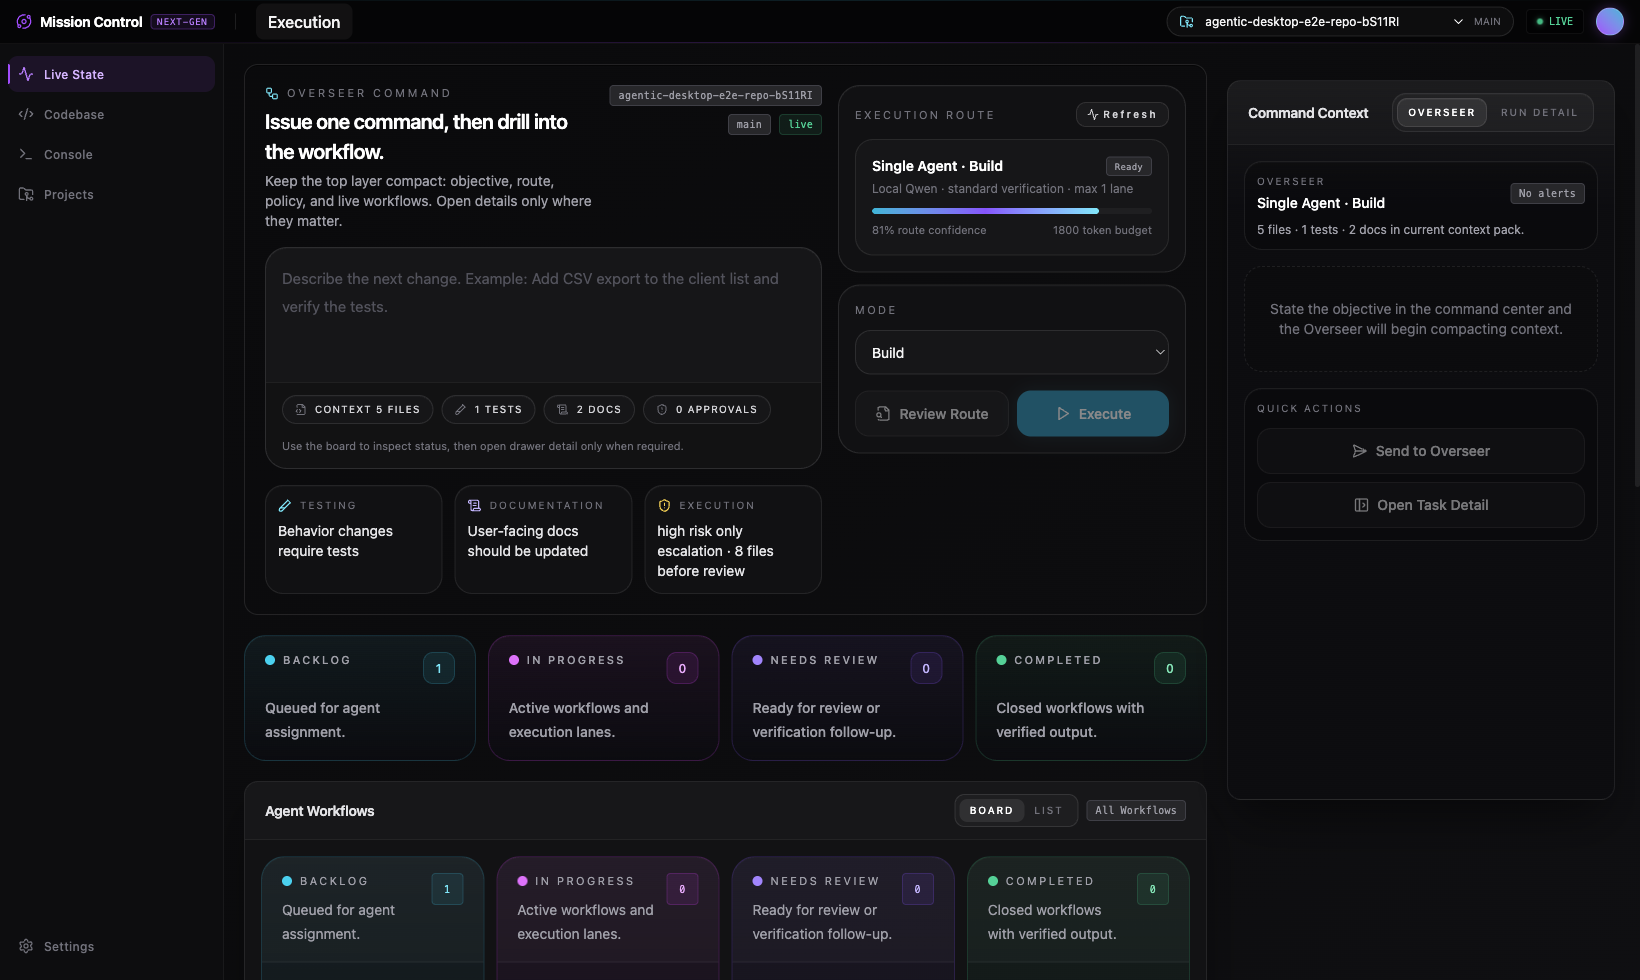
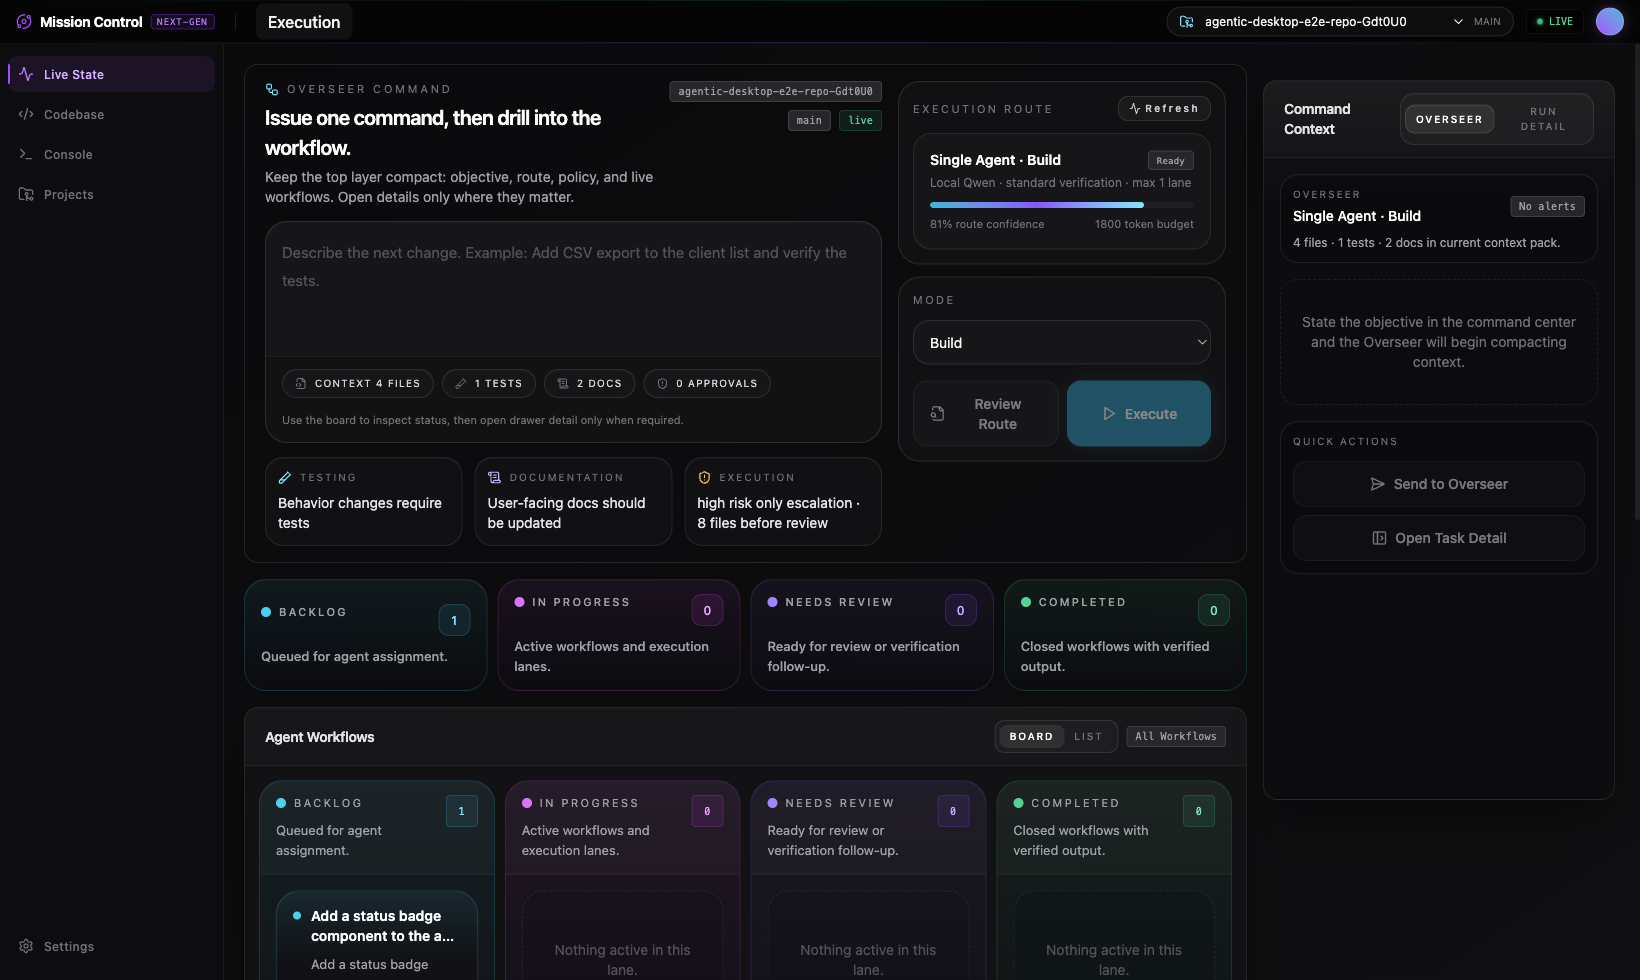
Tighten command center board density

diff --git a/src/app/components/views/CommandCenterView.tsx b/src/app/components/views/CommandCenterView.tsx
@@ -8,8 +8,6 @@ import {
   ArrowRight,
   Bot,
   CheckCircle2,
-  ChevronDown,
-  ChevronRight,
   CircleDot,
   FileCode2,
   FileSearch,
@@ -268,8 +266,8 @@ export function CommandCenterView({ mission }: { mission: MissionData }) {
   }, [groupedWorkflows]);
 
   return (
-    <div className="grid grid-cols-1 gap-5 xl:grid-cols-[minmax(0,1fr)_388px]">
-      <div className="min-w-0 space-y-5">
+    <div className="grid grid-cols-1 gap-4 xl:grid-cols-[minmax(0,1fr)_352px]">
+      <div className="min-w-0 space-y-4">
         <OverseerCommandCard
           mission={mission}
           attentionCount={attentionCount}
@@ -320,10 +318,10 @@ export function CommandCenterView({ mission }: { mission: MissionData }) {
                 </div>
               </PanelHeader>
 
-              <div className="p-4">
+              <div className="p-3.5">
                 {workflowViewMode === "board" ? (
                   <DndProvider backend={HTML5Backend}>
-                    <div className="grid gap-3 xl:grid-cols-4">
+                    <div className="grid gap-2.5 xl:grid-cols-4">
                       {laneActivity.map((lane) => (
                         <WorkflowLane
                           key={lane.key}
@@ -441,8 +439,8 @@ function OverseerCommandCard({
   return (
     <Panel className="border-white/10 bg-[radial-gradient(circle_at_top_left,rgba(34,211,238,0.08),transparent_24%),radial-gradient(circle_at_top_right,rgba(168,85,247,0.10),transparent_22%),#111113] shadow-[inset_0_1px_0_rgba(255,255,255,0.02)]">
       <div className="absolute inset-x-0 top-0 h-px bg-gradient-to-r from-transparent via-cyan-500/30 to-transparent" />
-      <div className="grid grid-cols-1 gap-4 p-5 lg:grid-cols-[minmax(0,1.35fr)_348px] lg:p-5">
-        <div className="space-y-4">
+      <div className="grid grid-cols-1 gap-4 px-5 py-4 lg:grid-cols-[minmax(0,1.45fr)_328px]">
+        <div className="space-y-3.5">
           <div className="flex items-start justify-between gap-4">
             <div className="space-y-1">
               <div className="flex items-center gap-2 text-[11px] uppercase tracking-[0.26em] text-zinc-500">
@@ -458,7 +456,7 @@ function OverseerCommandCard({
                   : "Choose a local Git repo or connect GitHub. The app works in a linked copy and keeps your original repository untouched."}
               </p>
             </div>
-            <div className="flex max-w-[360px] flex-wrap items-center justify-end gap-2">
+          <div className="flex max-w-[320px] flex-wrap items-center justify-end gap-2">
               {mission.selectedRepo ? (
                 <>
                   <Chip variant="subtle" className="max-w-[220px] truncate text-[10px]" title={mission.selectedRepo.displayName}>
@@ -565,7 +563,7 @@ function OverseerCommandCard({
         </div>
 
         <div className="flex flex-col gap-3">
-          <div className="rounded-[22px] border border-white/10 bg-[#111113] p-4 shadow-[inset_0_1px_0_rgba(255,255,255,0.02)]">
+          <div className="rounded-[22px] border border-white/10 bg-[#111113] p-3.5 shadow-[inset_0_1px_0_rgba(255,255,255,0.02)]">
             <div className="flex items-center justify-between gap-3 text-[11px] uppercase tracking-[0.22em] text-zinc-500">
               <span>Execution Route</span>
               <button
@@ -599,7 +597,7 @@ function OverseerCommandCard({
             </div>
           </div>
 
-          <div className="space-y-3 rounded-[22px] border border-white/10 bg-[#111113] p-4 shadow-[inset_0_1px_0_rgba(255,255,255,0.02)]">
+          <div className="space-y-3 rounded-[22px] border border-white/10 bg-[#111113] p-3.5 shadow-[inset_0_1px_0_rgba(255,255,255,0.02)]">
             <div className="text-[11px] uppercase tracking-[0.22em] text-zinc-500">Mode</div>
             <select
               value={mission.selectedModelRole}
@@ -660,7 +658,7 @@ function WorkflowSummaryRow({
   onSelect: (lane: WorkflowLaneKey) => void;
 }) {
   return (
-    <div className="grid grid-cols-1 gap-3 md:grid-cols-2 xl:grid-cols-4">
+    <div className="grid grid-cols-1 gap-2.5 md:grid-cols-2 xl:grid-cols-4">
       {lanes.map((lane) => {
         const meta = laneMetaFor(lane.key);
         const active = selectedLane === lane.key;
@@ -669,7 +667,7 @@ function WorkflowSummaryRow({
             key={lane.key}
             onClick={() => onSelect(lane.key)}
             className={cn(
-              "rounded-[22px] border px-5 py-4 text-left transition-all shadow-[inset_0_1px_0_rgba(255,255,255,0.02)]",
+              "rounded-[22px] border px-4 py-3.5 text-left transition-all shadow-[inset_0_1px_0_rgba(255,255,255,0.02)]",
               meta.columnClass,
               active ? "ring-1 ring-white/12 shadow-[0_0_18px_rgba(255,255,255,0.04)]" : "hover:border-white/16 hover:bg-white/[0.015]"
             )}
@@ -685,9 +683,9 @@ function WorkflowSummaryRow({
                 {lane.summary.count}
               </div>
             </div>
-            <div className="mt-3 max-w-[18rem] text-sm leading-6 text-zinc-400">{lane.description}</div>
+            <div className="mt-2.5 max-w-[16rem] text-[13px] leading-5 text-zinc-400">{lane.description}</div>
             {lane.summary.blockedCount ? (
-              <div className="mt-3 text-[11px] text-amber-300">
+              <div className="mt-2.5 text-[11px] text-amber-300">
                 {lane.summary.blockedCount} blocked in this lane
               </div>
             ) : null}
@@ -752,20 +750,20 @@ function WorkflowLane({
         isOver && canDrop ? "ring-1 ring-cyan-300/30 border-cyan-300/30 shadow-[0_0_20px_rgba(34,211,238,0.07)]" : ""
       )}
     >
-      <div className="flex items-start justify-between gap-2 border-b border-white/6 bg-white/[0.02] px-5 py-4">
+      <div className="flex items-start justify-between gap-2 border-b border-white/6 bg-white/[0.02] px-4 py-3.5">
         <div>
           <div className="flex items-center gap-2 text-[11px] uppercase tracking-[0.22em] text-zinc-400">
             <span className={cn("h-2.5 w-2.5 rounded-full", meta.dotClass, lane.key === "in_progress" ? "animate-pulse" : "")} />
             {lane.label}
           </div>
-          <div className="mt-2 max-w-[18rem] text-sm leading-6 text-zinc-400">{lane.description}</div>
+          <div className="mt-2 max-w-[15rem] text-[13px] leading-5 text-zinc-400">{lane.description}</div>
         </div>
         <Chip variant="subtle" className={cn("h-8 min-w-8 justify-center px-2.5 text-[10px]", meta.chipClass)}>
           {lane.items.length}
         </Chip>
       </div>
 
-      <div className="min-h-[360px] space-y-4 p-5">
+      <div className="min-h-[332px] space-y-3 p-4">
         {lane.items.length === 0 ? (
           <div className="rounded-[22px] border border-dashed border-white/8 bg-black/10 px-4 py-12 text-center text-sm text-zinc-600">
             Nothing active in this lane.
@@ -882,21 +880,21 @@ function WorkflowCard({
         isCardOver && canDropOnCard ? "ring-1 ring-cyan-300/35 border-cyan-300/30 shadow-[0_0_20px_rgba(34,211,238,0.08)]" : ""
       )}
     >
-      <div className="px-4 py-4">
+      <div className="px-4 py-3.5">
         <div className="min-w-0 flex-1">
           <div
             {...summaryToggleProps}
             className="min-w-0 cursor-pointer rounded-[18px] outline-none transition focus-visible:ring-1 focus-visible:ring-cyan-300/30"
             aria-label={expanded ? "Collapse workflow" : "Expand workflow"}
           >
-            <div className="flex items-start justify-between gap-3">
+            <div className="flex items-start justify-between gap-2.5">
               <div className="min-w-0 flex-1">
-                <div className="flex items-start gap-2">
-                  <span className={cn("mt-2 h-2 w-2 shrink-0 rounded-full", meta.dotClass, lane === "in_progress" ? "animate-pulse" : "")} />
+                <div className="flex items-start gap-2.5">
+                  <span className={cn("mt-1.5 h-2 w-2 shrink-0 rounded-full", meta.dotClass, lane === "in_progress" ? "animate-pulse" : "")} />
                   <div className="min-w-0 flex-1">
-                    <div className="flex items-start justify-between gap-3">
-                      <h3 className="line-clamp-2 pr-2 text-[15px] font-semibold leading-6 text-white">{item.title}</h3>
-                      <div className="flex items-center gap-2 shrink-0 pt-0.5">
+                    <h3 className="line-clamp-2 text-[14px] font-semibold leading-5 text-white">{item.title}</h3>
+                    {item.isBlocked || item.verificationState ? (
+                      <div className="mt-1.5 flex flex-wrap items-center gap-1.5">
                         {item.isBlocked ? (
                           <Chip variant="warn" className="text-[9px]">
                             Blocked
@@ -907,42 +905,39 @@ function WorkflowCard({
                             {item.verificationState}
                           </Chip>
                         ) : null}
-                        <span className="inline-flex h-6 w-6 items-center justify-center rounded-full border border-white/8 bg-white/[0.03] text-zinc-500">
-                          {expanded ? <ChevronDown className="h-3.5 w-3.5" /> : <ChevronRight className="h-3.5 w-3.5" />}
-                        </span>
                       </div>
-                    </div>
-                    <p className="mt-2 line-clamp-3 text-sm leading-6 text-zinc-400">{item.subtitle}</p>
+                    ) : null}
+                    <p className="mt-1.5 line-clamp-3 text-[13px] leading-6 text-zinc-400">{item.subtitle}</p>
                   </div>
                 </div>
               </div>
             </div>
 
-            <div className="mt-3 flex flex-wrap items-center gap-2">
-              <Chip variant="subtle" className="text-[9px] uppercase">
+            <div className="mt-2.5 flex flex-wrap items-center gap-1.5">
+              <Chip variant="subtle" className="px-2 py-1 text-[9px] uppercase">
                 {item.priority}
               </Chip>
-              <Chip variant="subtle" className="text-[9px]">
+              <Chip variant="subtle" className="px-2 py-1 text-[9px]">
                 {item.risk}
               </Chip>
               {item.ownerLabel ? (
-                <Chip variant="subtle" className="text-[9px]">
+                <Chip variant="subtle" className="px-2 py-1 text-[9px]">
                   {item.ownerLabel}
                 </Chip>
               ) : null}
               {lane === "needs_review" ? (
-                <Chip variant="subtle" className="border-violet-500/20 bg-violet-500/10 text-[9px] text-violet-200">
+                <Chip variant="subtle" className="px-2 py-1 border-violet-500/20 bg-violet-500/10 text-[9px] text-violet-200">
                   Review Ready
                 </Chip>
               ) : null}
               {lane === "completed" ? (
-                <Chip variant="subtle" className="border-emerald-500/20 bg-emerald-500/10 text-[9px] text-emerald-200">
+                <Chip variant="subtle" className="px-2 py-1 border-emerald-500/20 bg-emerald-500/10 text-[9px] text-emerald-200">
                   Verified
                 </Chip>
               ) : null}
             </div>
 
-            <div className="mt-3 flex flex-wrap items-center gap-4 text-[11px] text-zinc-500">
+            <div className="mt-2.5 flex flex-wrap items-center gap-3 text-[10px] text-zinc-500">
               {hasImpactSummary ? (
                 <>
                   <span className="inline-flex items-center gap-1.5">
@@ -967,7 +962,7 @@ function WorkflowCard({
             </div>
 
             {lane === "in_progress" ? (
-              <div className="mt-4 space-y-2.5">
+              <div className="mt-3 space-y-2">
                 {confidencePercent !== null ? (
                   <MicroBar label="Confidence" value={`${confidencePercent}%`} progress={confidencePercent} tone="from-cyan-500 to-cyan-300" />
                 ) : null}
@@ -976,20 +971,20 @@ function WorkflowCard({
             ) : null}
 
             {lane === "completed" ? (
-              <div className="mt-4 inline-flex items-center gap-2 text-xs text-emerald-300">
+              <div className="mt-3 inline-flex items-center gap-2 text-xs text-emerald-300">
                 <CheckCircle2 className="h-3.5 w-3.5" />
                 Verified output ready
               </div>
             ) : null}
 
             {lane === "needs_review" ? (
-              <div className="mt-4 inline-flex items-center gap-2 text-xs text-violet-300">
+              <div className="mt-3 inline-flex items-center gap-2 text-xs text-violet-300">
                 <CircleDot className="h-3.5 w-3.5" />
                 Awaiting review follow-up
               </div>
             ) : null}
 
-            <div className="mt-4 h-1.5 rounded-full bg-white/[0.04] overflow-hidden">
+            <div className="mt-3 h-1.5 rounded-full bg-white/[0.04] overflow-hidden">
               <div
                 className={cn(
                   "h-full rounded-full",

diff --git a/README.md b/README.md
@@ -172,7 +172,7 @@ This starts the Vite dev server, the Fastify API server (port 8787), the Rust si
 
 ### Fastest confidence path
 
-1. Launch the desktop app with `npm run dev:desktop`
+1. Launch the desktop app with `npm run start:desktop`
 2. Click **New Project** or **Connect Local Repo**
 3. Pick an **empty folder** (for new projects) or an existing repo
 4. For new projects, click **Initialize New Project** when prompted
@@ -189,7 +189,7 @@ This starts the Vite dev server, the Fastify API server (port 8787), the Rust si
 
 ### What the app looks like
 
-**Live State** — the command center with Overseer command card, workflow summary row, and four-lane kanban board:
+**Live State** — the command center with the Overseer command card, workflow summary row, and four-lane kanban board:
 
 ![Live State - Execution](docs/screenshots/01-shell.png)
 
@@ -197,7 +197,7 @@ This starts the Vite dev server, the Fastify API server (port 8787), the Rust si
 
 ![Projects View](docs/screenshots/01b-projects.png)
 
-**Scaffold Complete** — after scaffolding, see the run narrative timeline and execution outcome:
+**Scaffold Complete** — after scaffolding, see the command-center outcome state with verification and execution evidence:
 
 ![Scaffold Complete](docs/screenshots/02-scaffold-complete.png)
 
@@ -208,6 +208,10 @@ This starts the Vite dev server, the Fastify API server (port 8787), the Rust si
 **Agent Console** — real event stream with execution, verification, provider, approval, and indexing events:
 
 ![Agent Console](docs/screenshots/04-console.png)
+
+**Follow-up Change** — after a real feature task, the new component and test changes are visible immediately in the managed-worktree Codebase view:
+
+![Follow-up Codebase](docs/screenshots/05-followup-codebase.png)
 
 ---
 
